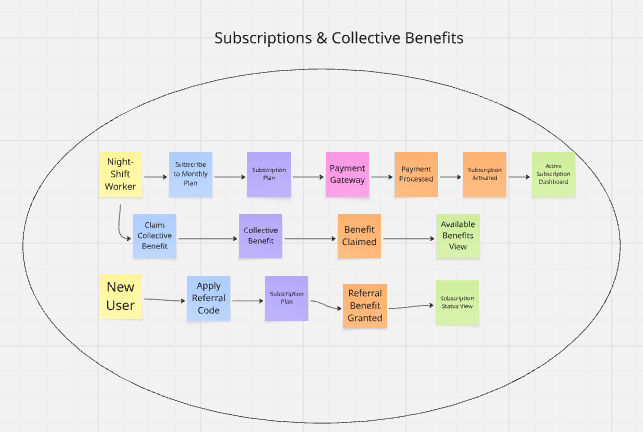
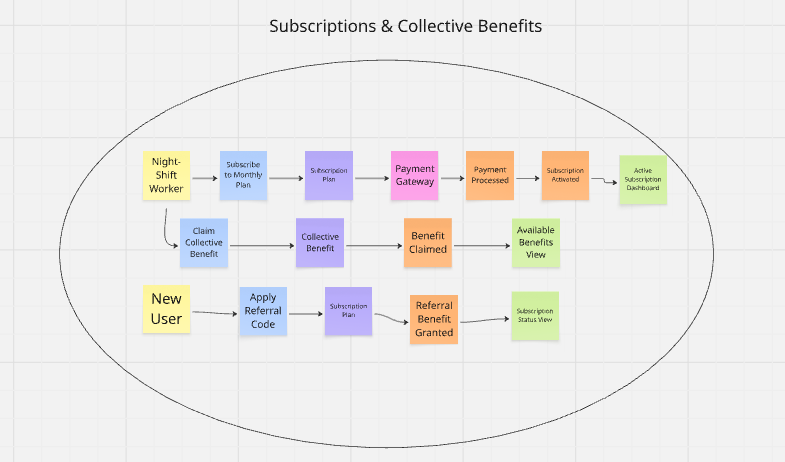
docs: updte design level event storming section

diff --git a/README.md b/README.md
@@ -1861,23 +1861,23 @@ En esta sección se presenta la arquitectura de software de Noxway desde el enfo
 **Identity & Network Management**
 <br>
 <br>
-<img src="resources/imgs/Identity & Network Management.png"
+<img src="resources/imgs/iam.png"
      alt="eventstorming"
      style="">
 <br>
 <br>
-**Safe Commute Execution**
+**Safe Commute & Incident Mangement**
 <br>
 <br>
-<img src="resources/imgs/safees.png"
+<img src="resources/imgs/safe-commute.png"
      alt="eventstorming"
      style="">
 <br>
 <br>
-**Incident & Alert Management**
+**Sleep Health & Wellnes**
 <br>
 <br>
-<img src="resources/imgs/incident.png"
+<img src="resources/imgs/sleep-health.png"
      alt="eventstorming"
      style="">
 <br>
@@ -1885,15 +1885,7 @@ En esta sección se presenta la arquitectura de software de Noxway desde el enfo
 **Community Intelligence**
 <br>
 <br>
-<img src="resources/imgs/comuni.png"
-     alt="eventstorming"
-     style="">
-<br>
-<br>
-**Sleep Health & Wellness**
-<br>
-<br>
-<img src="resources/imgs/sleep.png"
+<img src="resources/imgs/community.png"
      alt="eventstorming"
      style="">
 <br>
@@ -1909,7 +1901,7 @@ En esta sección se presenta la arquitectura de software de Noxway desde el enfo
 **Moderation & Governance**
 <br>
 <br>
-<img src="resources/imgs/governance.png"
+<img src="resources/imgs/modera.png"
      alt="eventstorming"
      style="">
 
